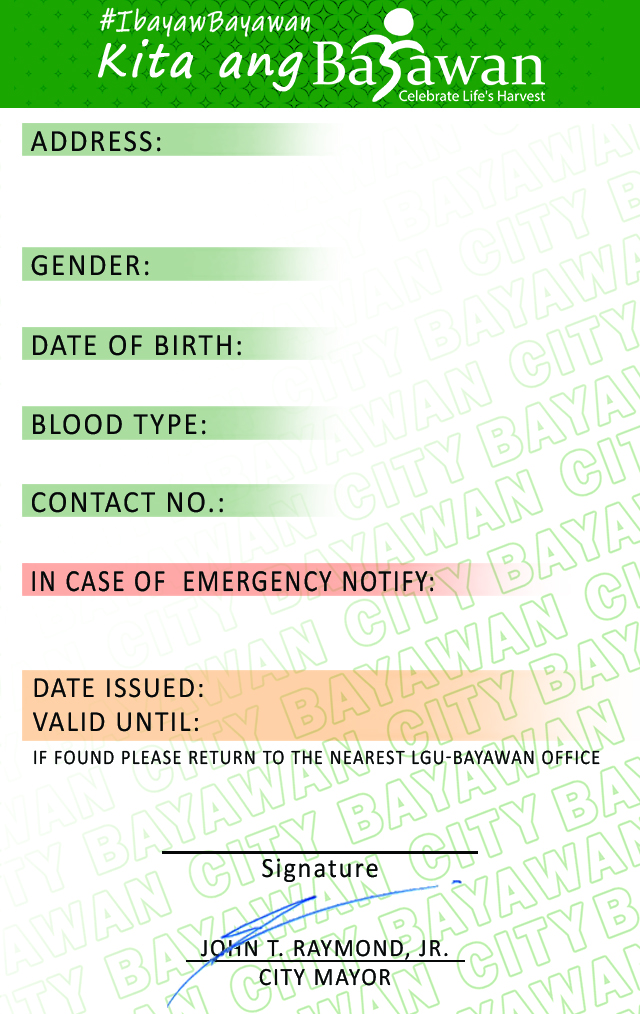
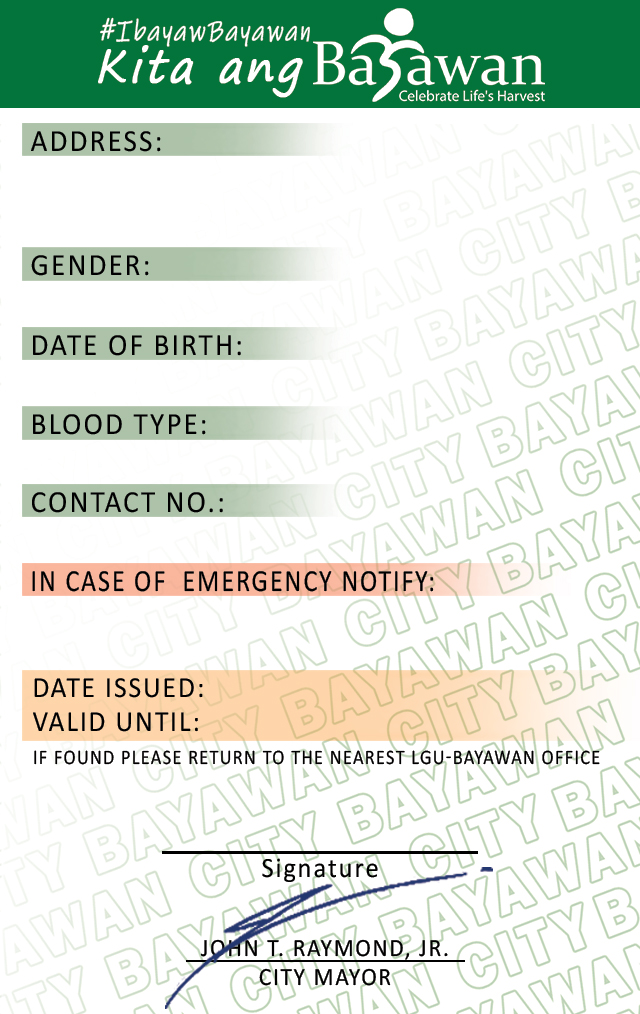
hidgh res id download: back done

diff --git a/src/components/IdCardBackV2.vue b/src/components/IdCardBackV2.vue
@@ -1,11 +1,11 @@
 <template>
   <div
-    id="IdCardBack"
+    id="IdCardBackV2"
     style="
       /* border: 1px solid gray; */
       /* background-color: aqua; */
-      height: 12.75cm;
-      width: 8.1cm;
+      width: 640px;
+      height: 1014px;
       font-size: 7pt;
       position: relative;
       background-image: url('/images/REG_ID_Back_Temp.jpg');
@@ -25,14 +25,13 @@
       class="detail"
       style="
         position: absolute;
-        top: 79px;
-        left: 10px;
-        /* background-color: red; */
+        top: 170px;
+        left: 35px;
         overflow: hidden;
-        width: 265px;
-        height: 35px;
-        font-size: 11pt;
-        line-height: 13pt;
+        width: 559px;
+        height: 57px;
+        font-size: 22pt;
+        line-height: 23pt;
       "
     >
       <!-- {{ details.address }} -->
@@ -45,28 +44,28 @@
 
     <div
       class="detail"
-      style="position: absolute; top: 133px; left: 14px; font-size: 11pt"
+      style="position: absolute; top: 283px; left: 42px; font-size: 22pt"
     >
       {{ details.gender }}
     </div>
 
     <div
       class="detail"
-      style="position: absolute; top: 171px; left: 14px; font-size: 11pt"
+      style="position: absolute; top: 363px; left: 42px; font-size: 22pt"
     >
       {{ details.date_of_birth }}
     </div>
 
     <div
       class="detail"
-      style="position: absolute; top: 209px; left: 14px; font-size: 11pt"
+      style="position: absolute; top: 442px; left: 42px; font-size: 22pt"
     >
       {{ details.blood_type }}
     </div>
 
     <div
       class="detail"
-      style="position: absolute; top: 245px; left: 14px; font-size: 11pt"
+      style="position: absolute; top: 521px; left: 42px; font-size: 22pt"
     >
       {{ details.contact_number }}
     </div>
@@ -76,10 +75,9 @@
         width: 100%;
         text-align: left;
         position: absolute;
-        left: 22px;
-        bottom: 178px;
-        /* font-weight: 600; */
-        font-size: 14px;
+        bottom: 376px;
+        left: 46px;
+        font-size: 22pt;
       "
     >
       {{ details.emergency_name }}
@@ -101,15 +99,15 @@
           : ""
       }}...
     </div> -->
+
     <div
       style="
         width: 100%;
         text-align: left;
         position: absolute;
-        left: 22px;
-        top: 297px;
-        /* font-weight: 600; */
-        font-size: 16px;
+        bottom: 344px;
+        left: 46px;
+        font-size: 22pt;
       "
     >
       {{ details.emergency_number }}
@@ -117,14 +115,14 @@
 
     <div
       class="detail"
-      style="position: absolute; top: 319px; left: 91px; font-size: 9pt"
+      style="position: absolute; top: 671px; left: 204px; font-size: 19pt"
     >
       {{ details.date_issued_formatted }}
     </div>
 
     <div
       class="detail"
-      style="position: absolute; top: 335px; left: 91px; font-size: 9pt"
+      style="position: absolute; top: 705px; left: 205px; font-size: 19pt"
     >
       {{ details.date_expire_formatted }}
     </div>
@@ -145,7 +143,7 @@
       <!-- :hidden="details.name ? false : true" -->
 
       <img
-        id="signatureImage"
+        id="signatureImageV2"
         class="signatureImage"
         src="~/assets/images/get_sig.png"
         style="
@@ -153,9 +151,11 @@
           width: 359px;
           /* vertical-align: bottom; */
           position: absolute;
-          bottom: -146px;
-          left: -27px;
-          transform: scale(0.4);
+          /* bottom: -146px;
+          left: -27px; */
+          bottom: -584px;
+          left: 151px;
+          /* transform: scale(0.4); */
         "
       />
     </div>
@@ -904,7 +904,7 @@ function processPoint(point, in_canvas, in_ctx) {
 }
 
 function generateImage() {
-  var signatureImage = document.getElementById("signatureImage");
+  var signatureImage = document.getElementById("signatureImageV2");
   var signatureCanvas = document.createElement("canvas");
   signatureCanvas.id = "signatureCanvas";
   signatureCanvas.height = signatureImage.height; //227

diff --git a/src/pages/IndexPage.vue b/src/pages/IndexPage.vue
@@ -381,6 +381,13 @@
     <!-- <video id="player" autoplay></video>
     <button id="capture">Capture</button>
     <canvas id="canvas" width="320" height="240"></canvas> -->
+
+    <!-- <div style="width: 640px; height: 1014px; background-color: green"></div> -->
+    <div style="height: 200px"></div>
+    <IdCardBackV2
+      :details="selected_employee_data"
+      @onPenDataSave="savePendata"
+    />
   </q-page>
 </template>
 
@@ -389,6 +396,7 @@ import { useQuasar } from "quasar";
 
 import IdCardFront from "components/IdCardFront.vue";
 import IdCardBack from "components/IdCardBack.vue";
+import IdCardBackV2 from "components/IdCardBackV2.vue";
 import PhotoGetter from "components/PhotoGetter.vue";
 import PhotoAdjuster from "components/PhotoAdjuster.vue";
 
@@ -402,6 +410,7 @@ defineOptions({
   components: {
     IdCardFront,
     IdCardBack,
+    IdCardBackV2,
     TextFormatter,
   },
 
@@ -529,7 +538,7 @@ defineOptions({
     downloadImage() {
       // canvasWidth: 204, canvasHeight: 324
       var node1 = document.getElementById("IdCardFront");
-      var node2 = document.getElementById("IdCardBack");
+      var node2 = document.getElementById("IdCardBackV2");
       htmlToImage.toJpeg(node1, { quality: 1 }).then((dataUrl) => {
         var link = document.createElement("a");
         link.download =
